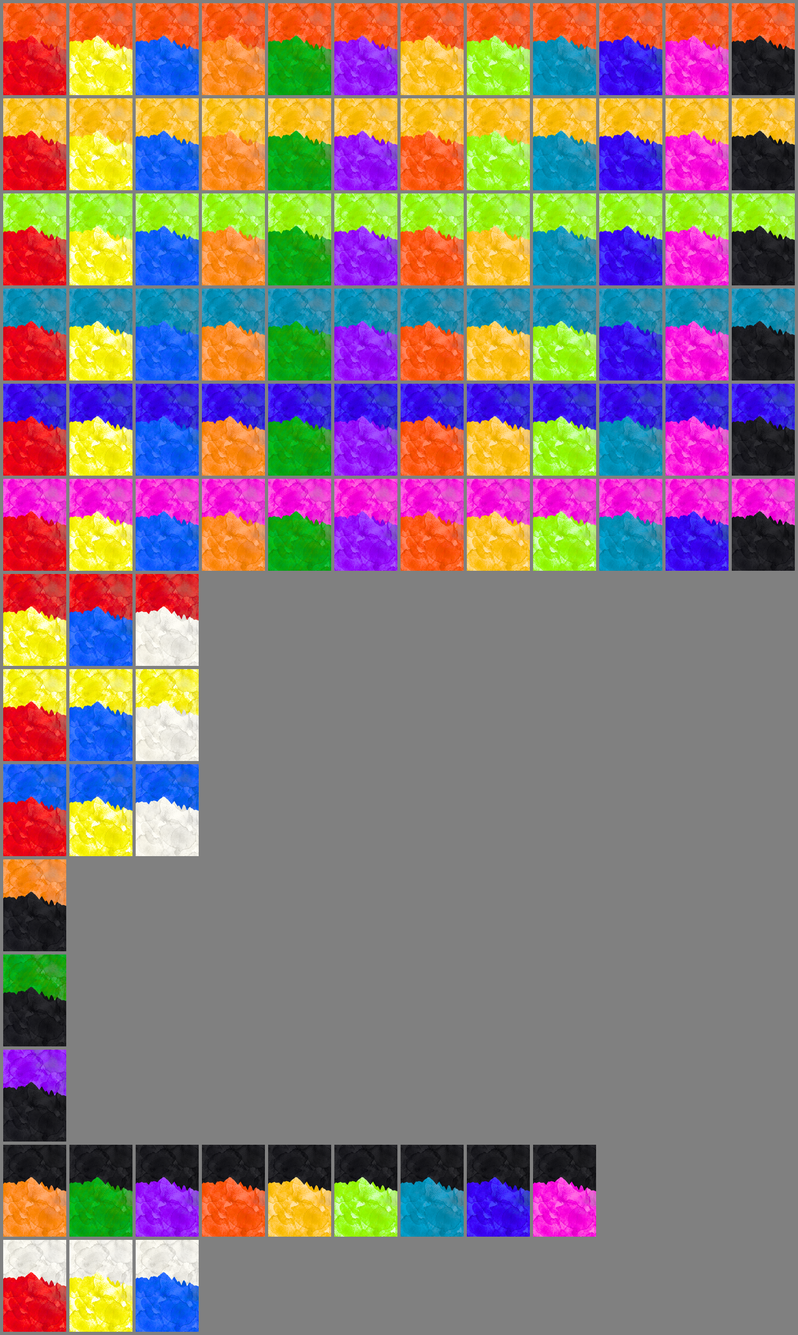
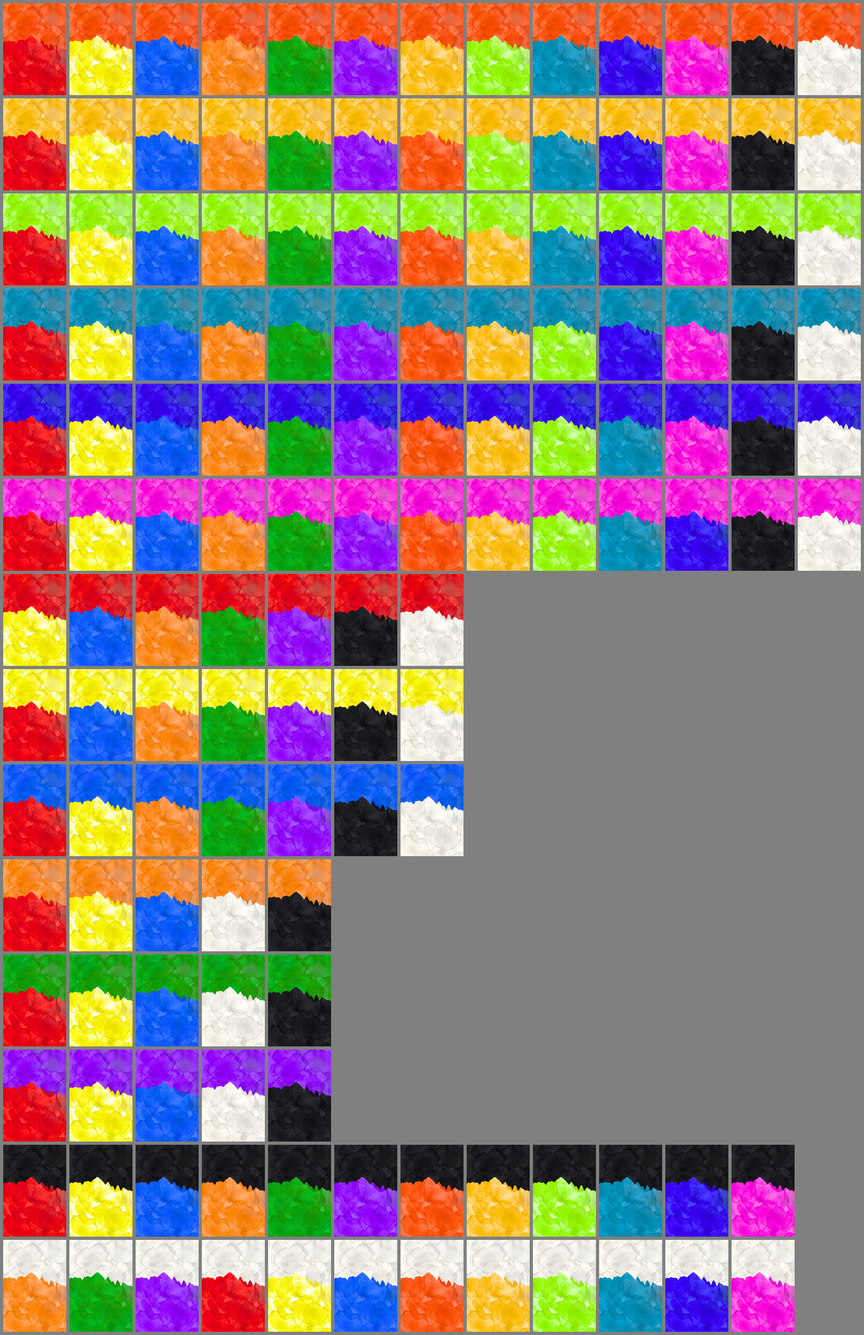
Add neutral and primary/secondary mountain card backgrounds
The mountain set gains the remaining pairings around the neutrals and the two
wheel families: black over each primary (it already carried every secondary and
tertiary), white over each tertiary, and the secondary/primary crossing in both
directions with white counted as a primary for it. Black and white now each
appear as sky over all twelve wheel colors and as range under all twelve.

- pairs() carries the new crossings; the sky order and contact-sheet layout are
  unchanged, so each row is still one sky
- Mountain set goes from 96 cards to 138; the 96 existing PNGs regenerate
  byte-identical
- Worst plateau dE is 1.62 (Orange sky over Black), the same worst pair as
  before

diff --git a/scripts/mountain_backgrounds.py b/scripts/mountain_backgrounds.py
@@ -14,7 +14,7 @@ an artistic profile with massifs named for the peaks that dominate that view --
 not a surveyed elevation.
 
     python3 scripts/mountain_backgrounds.py --preview   # skyline only, no color
-    python3 scripts/mountain_backgrounds.py             # all 96 cards
+    python3 scripts/mountain_backgrounds.py             # all 138 cards
 """
 
 import argparse
@@ -151,7 +151,18 @@ def pairs():
     # and which as range is a composition call rather than something the color
     # pair fixes.
     out += [p for group in (TERTIARY, PRIMARY) for p in permutations(group, 2)]
-    for neutral, partners in (('Black', SECONDARY + TERTIARY), ('White', PRIMARY)):
+    # The two wheel families also cross in both directions, with white counted
+    # as a primary for the crossing: every secondary as a sky over every
+    # primary, and the reverse. White has no secondary pair of its own, so this
+    # is what carries it against the secondaries.
+    bright = PRIMARY + ['White']
+    out += [(p, s) for p in bright for s in SECONDARY]
+    out += [(s, p) for s in SECONDARY for p in bright]
+    # Each neutral carries the colors it is meant to sit against -- black over
+    # every primary, secondary and tertiary, white over every primary and
+    # tertiary -- in both directions.
+    for neutral, partners in (('Black', PRIMARY + SECONDARY + TERTIARY),
+                              ('White', PRIMARY + TERTIARY)):
         out += [(neutral, c) for c in partners] + [(c, neutral) for c in partners]
     # Grouped by sky color, so each row of the contact sheet is one sky.
     skies = TERTIARY + PRIMARY + SECONDARY + ['Black', 'White']
